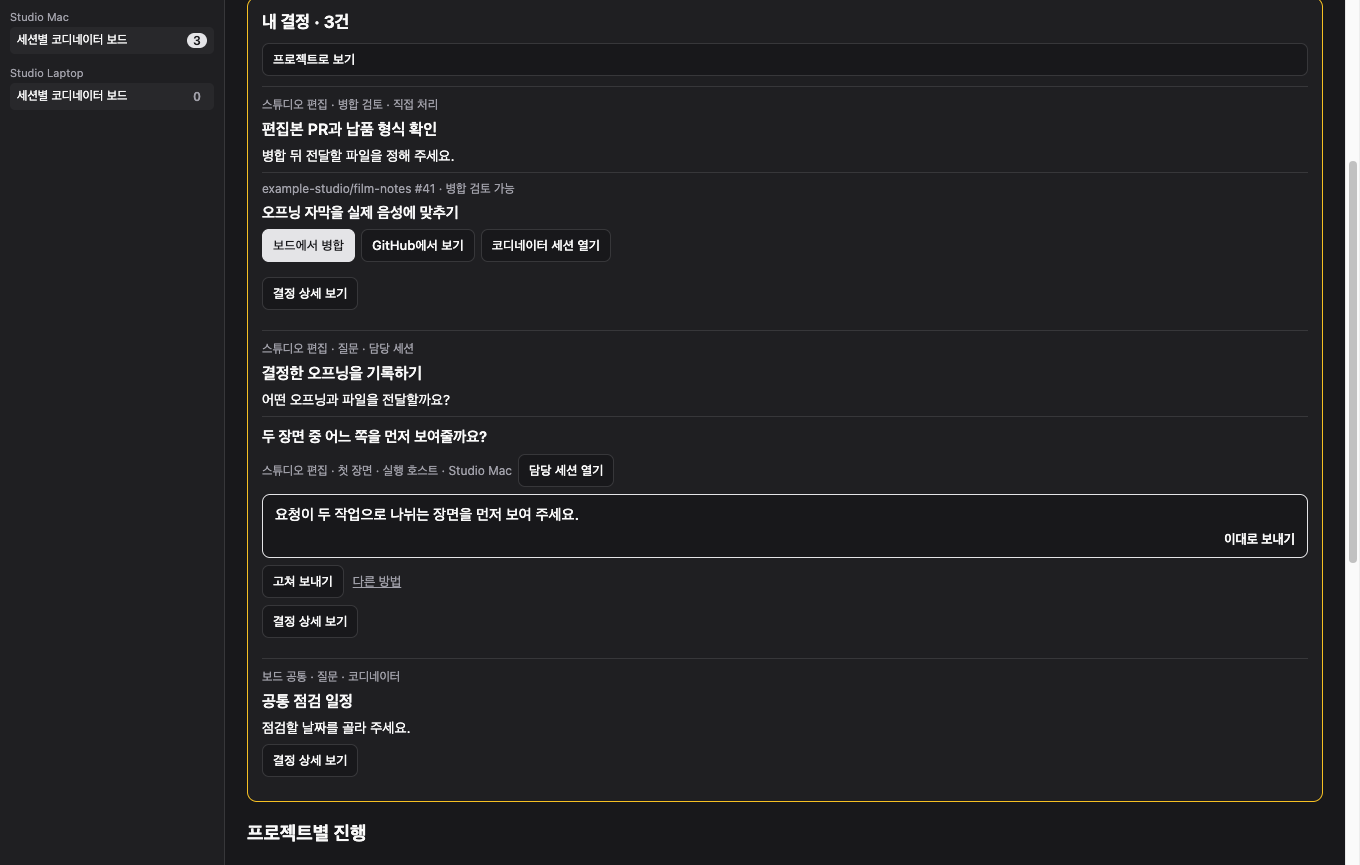
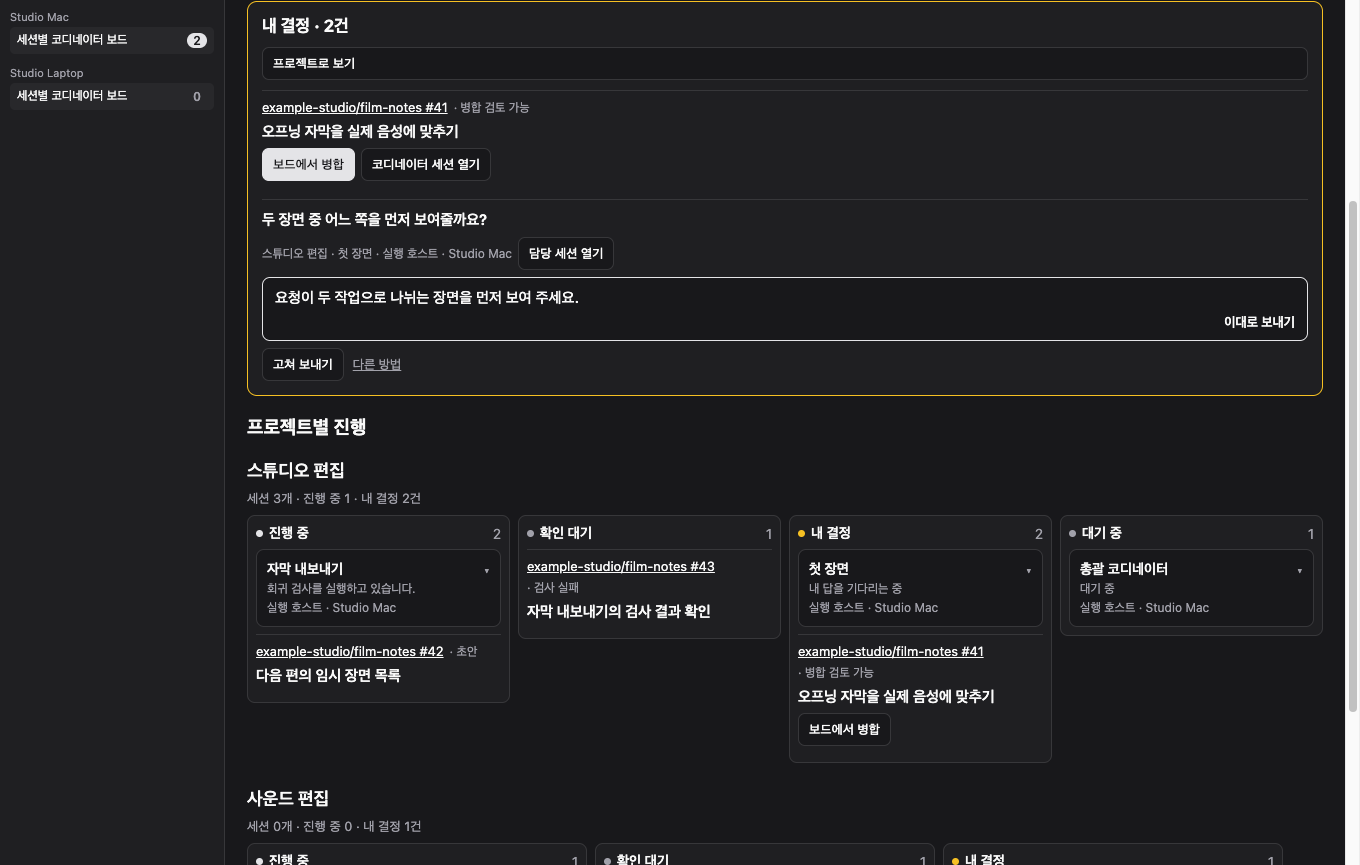
PR 번호에서 GitHub 변경 내용을 열게 하라

diff --git a/client/pull-requests.tsx b/client/pull-requests.tsx
@@ -1,6 +1,6 @@
 import { openExternalUrl, useRpc } from "@getpaseo/plugin/client";
 import { useRef, useState } from "react";
-import { Text, TextInput, View } from "react-native";
+import { Platform, Text, TextInput, View } from "react-native";
 import { confirmPullRequestMerge, previewPullRequestMerge, setProjectRepository, type MergeMethod, type MergePreview, type MergeReason, type MergeResult, type PullRequestView } from "../shared/prs";
 import { Button, type Theme } from "./controls";
 import { useBoardLanguage, type Translate } from "./language";
@@ -100,7 +100,15 @@ export function PullRequestCard({ pr, projectId, theme, decision = false, openCo
     try { await openExternalUrl(pr.url); setLinkError(false); } catch { setLinkError(true); }
   }
   return <View style={{gap: 6, borderTopColor: c.border, borderTopWidth: 1, paddingVertical: 8}}>
-    <Text selectable style={{color: c.foregroundMuted, fontSize: 12}}>{target} · {t(status[0], status[1])}</Text>
+    <View style={{ ...wrap, alignItems: "baseline" }}>
+      <Text accessibilityRole="link" accessibilityLabel={target + " · " + t("GitHub에서 보기", "View on GitHub")}
+        {...(Platform.OS === "web" && { href: pr.url, hrefAttrs: { target: "_blank", rel: "noopener noreferrer" } })}
+        onPress={event => { event.preventDefault(); void github(); }}
+        style={{ maxWidth: "100%", color: c.foreground, textDecorationLine: "underline", fontSize: 13 }}>
+        {target}
+      </Text>
+      <Text selectable style={{ color: c.foregroundMuted, fontSize: 12 }}>· {t(status[0], status[1])}</Text>
+    </View>
     <Text selectable style={{color: c.foreground, fontSize: 15, fontWeight: "600"}}>{preview?.title || pr.title}</Text>
     {preview && ready && <View style={{gap: 7, padding: 10, borderWidth: 1, borderRadius: 7, borderColor: c.border, backgroundColor: c.surface0}}>
       <Text selectable style={{color: c.foreground, fontWeight: "600"}}>{preview.baseRef} ← {preview.headRef}</Text>
@@ -114,11 +122,10 @@ export function PullRequestCard({ pr, projectId, theme, decision = false, openCo
         <Button theme={theme} {...named(t("취소", "Cancel"))} disabled={!!busy} onPress={() => { setPreview(null); setMethod(null); }} />
       </View>
     </View>}
-    <View style={wrap}>
+    {((ready && !preview) || (decision && openCoordinator)) && <View style={wrap}>
       {ready && !preview && <Button theme={theme} {...named(busy === "read" ? t("병합 정보 조회 중…", "Loading merge details…") : t("보드에서 병합", "Merge on board"))} selected={decision} disabled={!!busy} onPress={() => void inspect()} />}
-      <Button theme={theme} {...named(t("GitHub에서 보기", "View on GitHub"))} onPress={() => void github()} />
       {decision && openCoordinator && <Button theme={theme} {...named(t("코디네이터 세션 열기", "Open coordinator session"))} onPress={openCoordinator} />}
-    </View>
+    </View>}
     {lookupError && <Text accessibilityLiveRegion="polite" style={{color:c.statusWarning}}>{t("병합 정보를 불러오지 못했습니다. 다시 조회하거나 GitHub에서 확인하세요.", "Could not load merge details. Try again or open GitHub.")}</Text>}
     {notice && notice.status !== "merged" && notice.status !== "already-merged" && <MergeFeedback notice={notice} theme={theme} />}
     {linkError && <Text selectable style={{color:c.foregroundMuted}}>{pr.url}</Text>}

diff --git a/README.md b/README.md
@@ -51,11 +51,11 @@ ZIP을 받았다면 세션을 실행할 컴퓨터에서 압축을 풀고 `paseo-
 
 ## 다른 기기의 세션 찾아보기
 
-**설정 → Paseo 호스트**에는 앱에 등록한 기기가 모두 표시됩니다. 새로 등록한 기기도 기본으로 포함합니다. 이름 아래에서 **세션 목록에 표시 중** 또는 **세션 목록에서 숨김**을 확인하고, 옆의 **숨기기** 또는 **표시하기**를 눌러 바꿉니다. 오프라인 기기는 연결 상태를 표시하고, 다시 연결되면 목록을 열 수 있습니다. 같은 설정 안의 **기기별 세션 찾아보기**에서 기기를 고르면 그때 해당 호스트에 세션 목록을 요청합니다. 이름이 같은 기기는 식별자를 확인하세요. 목록에서 제외한 기기는 보드를 다시 열어도 숨겨집니다. 이 설정은 호스트별 세션 목록에 적용됩니다. 작업 배정과 다이제스트는 보드를 연 호스트에서 진행됩니다.
+**설정 → Paseo 호스트**에는 앱에 등록한 기기가 모두 표시됩니다. 새로 등록한 기기도 기본으로 포함합니다. 이름 아래에서 **세션 목록에 표시 중** 또는 **세션 목록에서 숨김**을 확인하고, 옆의 **숨기기** 또는 **표시하기**를 눌러 바꿉니다. 오프라인 기기는 연결 상태를 표시하고, 다시 연결되면 목록을 열 수 있습니다. 같은 설정 안의 **기기별 세션 찾아보기**에서 기기를 고르면 그때 해당 호스트에 세션 목록을 요청합니다. 이름이 같은 기기는 식별자를 확인하세요. 목록에서 제외한 기기는 보드를 다시 열어도 숨겨집니다. 이 설정은 호스트별 세션 목록에 적용됩니다. 작업 배정과 다이제스트는 코디네이터가 있는 호스트에서 진행됩니다. 다른 기기의 세션을 표시해도 새 작업자가 생성될 기기는 바뀌지 않습니다. 예를 들어 Windows 작업을 배정하려면 Windows 호스트의 보드에서 요청하세요.
 
 ### GitHub PR과 내 결정
 
-사이드바와 **내 결정**은 관리 프로젝트의 세션 질문, 병합 검토 PR, 연결된 결정 원장을 함께 셉니다. 원장에서 같은 PR이나 같은 세션 질문을 확인하면 한 카드에 표시합니다. 관리 프로젝트에 GitHub 원격 저장소가 있으면 호스트의 GitHub CLI(`gh`)로 열린 PR을 조회합니다. 병합 조건을 충족한 PR은 **내 결정**에 뜹니다. **보드에서 병합**을 눌러 저장소, 대상 브랜치, 검토할 커밋과 사용할 병합 방식을 확인하세요. **병합 확정**을 누르면 호스트에 로그인한 GitHub 계정으로 요청을 보냅니다. 새 커밋이 올라왔거나 병합 조건이 바뀌면 다시 검토해야 합니다. 코드를 읽으려면 **GitHub에서 보기**를 누르세요. 초안이나 검사 중인 PR은 **프로젝트별 진행**에서 볼 수 있습니다. 여러 프로젝트가 같은 저장소를 쓰면 내 결정에서는 PR 한 건으로 셉니다.
+사이드바와 **내 결정**은 관리 프로젝트의 세션 질문, 병합 검토 PR, 연결된 결정 원장을 함께 셉니다. 원장에서 같은 PR이나 같은 세션 질문을 확인하면 한 카드에 표시합니다. 관리 프로젝트에 GitHub 원격 저장소가 있으면 호스트의 GitHub CLI(`gh`)로 열린 PR을 조회합니다. 병합 조건을 충족한 PR은 **내 결정**에 뜹니다. **보드에서 병합**을 눌러 저장소, 대상 브랜치, 검토할 커밋과 사용할 병합 방식을 확인하세요. **병합 확정**을 누르면 호스트에 로그인한 GitHub 계정으로 요청을 보냅니다. 새 커밋이 올라왔거나 병합 조건이 바뀌면 다시 검토해야 합니다. 변경 내용을 읽으려면 카드 위의 **저장소 이름과 PR 번호**를 누르세요. GitHub에서 해당 PR이 열립니다. 초안이나 검사 중인 PR은 **프로젝트별 진행**에서 볼 수 있습니다. 여러 프로젝트가 같은 저장소를 쓰면 내 결정에서는 PR 한 건으로 셉니다.
 
 저장소를 자동으로 찾지 못했거나 다른 저장소를 보고 싶다면 **설정 → 프로젝트별 GitHub 저장소**에서 `owner/repository`를 입력하세요. **PR 조회 끄기**로 프로젝트별 조회를 끌 수 있습니다. 조회에 실패하면 보드를 연 호스트에서 `gh`의 설치와 저장소 접근 권한을 확인하세요.
 

diff --git a/OVERVIEW.md b/OVERVIEW.md
@@ -33,11 +33,11 @@ A worker asking “Which project does this session belong to?” can receive a v
 
 ## GitHub pull requests
 
-The sidebar count combines session questions, pull requests ready for review, and decisions from configured project records. Entries referring to the same pull request or verified session question appear together. A pull request shared by several managed projects counts once. Choose **Merge on board** to review the repository, branches, commit, and allowed merge methods. Confirm to merge with the host’s authenticated GitHub account. Open the PR on GitHub for its diff. A changed commit or failed requirement requires another review. Drafts and pull requests waiting for checks appear in project progress. The board reads open pull requests with the host’s authenticated GitHub CLI. In **Settings → GitHub repositories by project**, choose automatic detection, enter an explicit repository, or turn off lookup for a project.
+The sidebar count combines session questions, pull requests ready for review, and decisions from configured project records. Entries referring to the same pull request or verified session question appear together. A pull request shared by several managed projects counts once. Choose **Merge on board** to review the repository, branches, commit, and allowed merge methods. Confirm to merge with the host’s authenticated GitHub account. Select the underlined repository and PR number at the top of the card to read the diff on GitHub. A changed commit or failed requirement requires another review. Drafts and pull requests waiting for checks appear in project progress. The board reads open pull requests with the host’s authenticated GitHub CLI. In **Settings → GitHub repositories by project**, choose automatic detection, enter an explicit repository, or turn off lookup for a project.
 
 ## Models, hosts and tools
 
-In **Settings**, choose providers and models for task grades A through D, or the M grade used to create or replace the coordinator. Providers discovered on the active host are included by default. You can exclude a provider and restore it later. The model selector shows eligible providers, available models, and reasons a saved model cannot be used. The current route appears first and preselects its model and effort. With only Codex, grades use the connected Codex models. Without an available Claude Code or Codex model, ordinary higher-grade tasks can use another connected provider. If a saved list has no available candidate, edit it or choose **Restore defaults**. Session cards show the provider and model reported by Paseo. Under **Settings → Paseo hosts**, each device shows its connection and whether its sessions appear in the list. Use **Hide** or **Show** to change visibility. New work is assigned on the board's current host.
+In **Settings**, choose providers and models for task grades A through D, or the M grade used to create or replace the coordinator. Providers discovered on the active host are included by default. You can exclude a provider and restore it later. The model selector shows eligible providers, available models, and reasons a saved model cannot be used. The current route appears first and preselects its model and effort. With only Codex, grades use the connected Codex models. Without an available Claude Code or Codex model, ordinary higher-grade tasks can use another connected provider. If a saved list has no available candidate, edit it or choose **Restore defaults**. Session cards show the provider and model reported by Paseo. Under **Settings → Paseo hosts**, each device shows its connection and whether its sessions appear in the list. Use **Hide** or **Show** to change visibility. The coordinator creates workers on its own host. To assign Windows work on a Windows machine, send the request from that host’s board.
 
 The coordinator uses `read_board_conversation` to read managed sessions and `classify_board_conversation` to record a judgment tied to the current evidence. It uses `plan_board_assignment` and `assign_board_worker` to delegate work. A worker with reporting enabled can post a question or a result to its own card with `report_to_board`. These tools require Paseo MCP integration in the session's provider.
 
